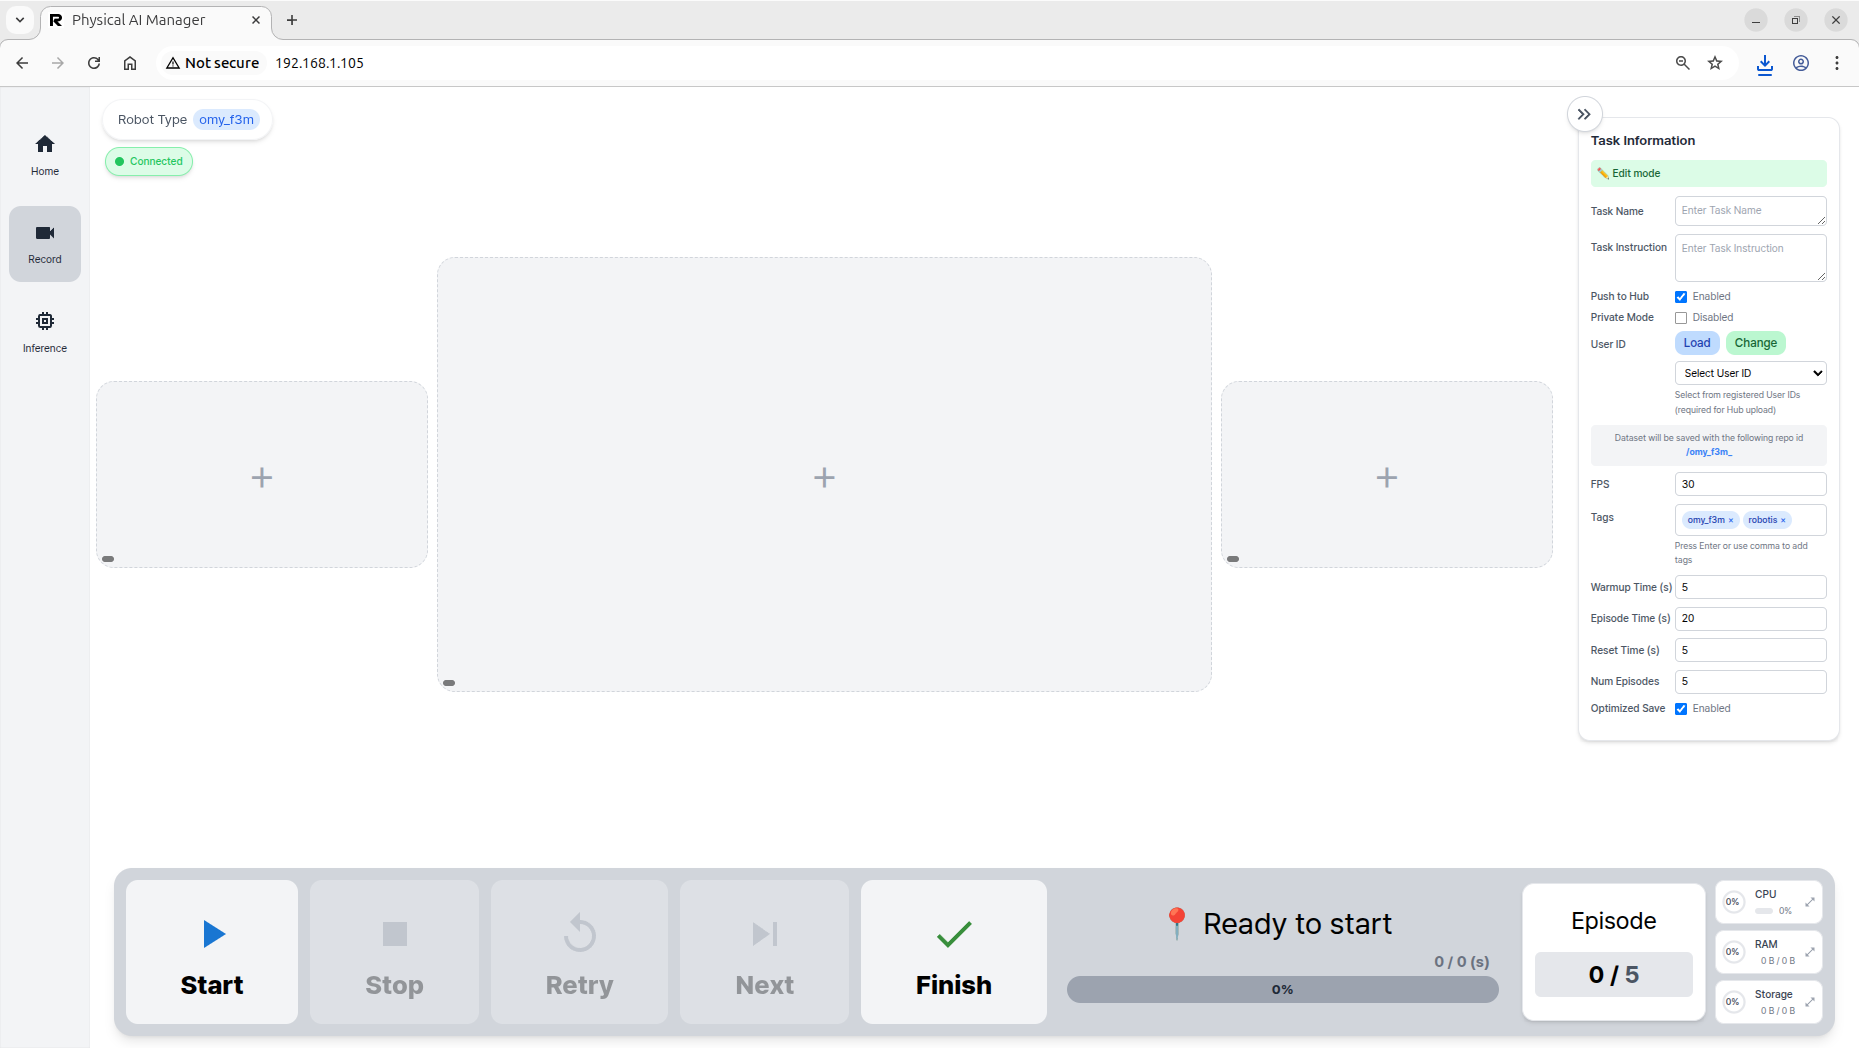
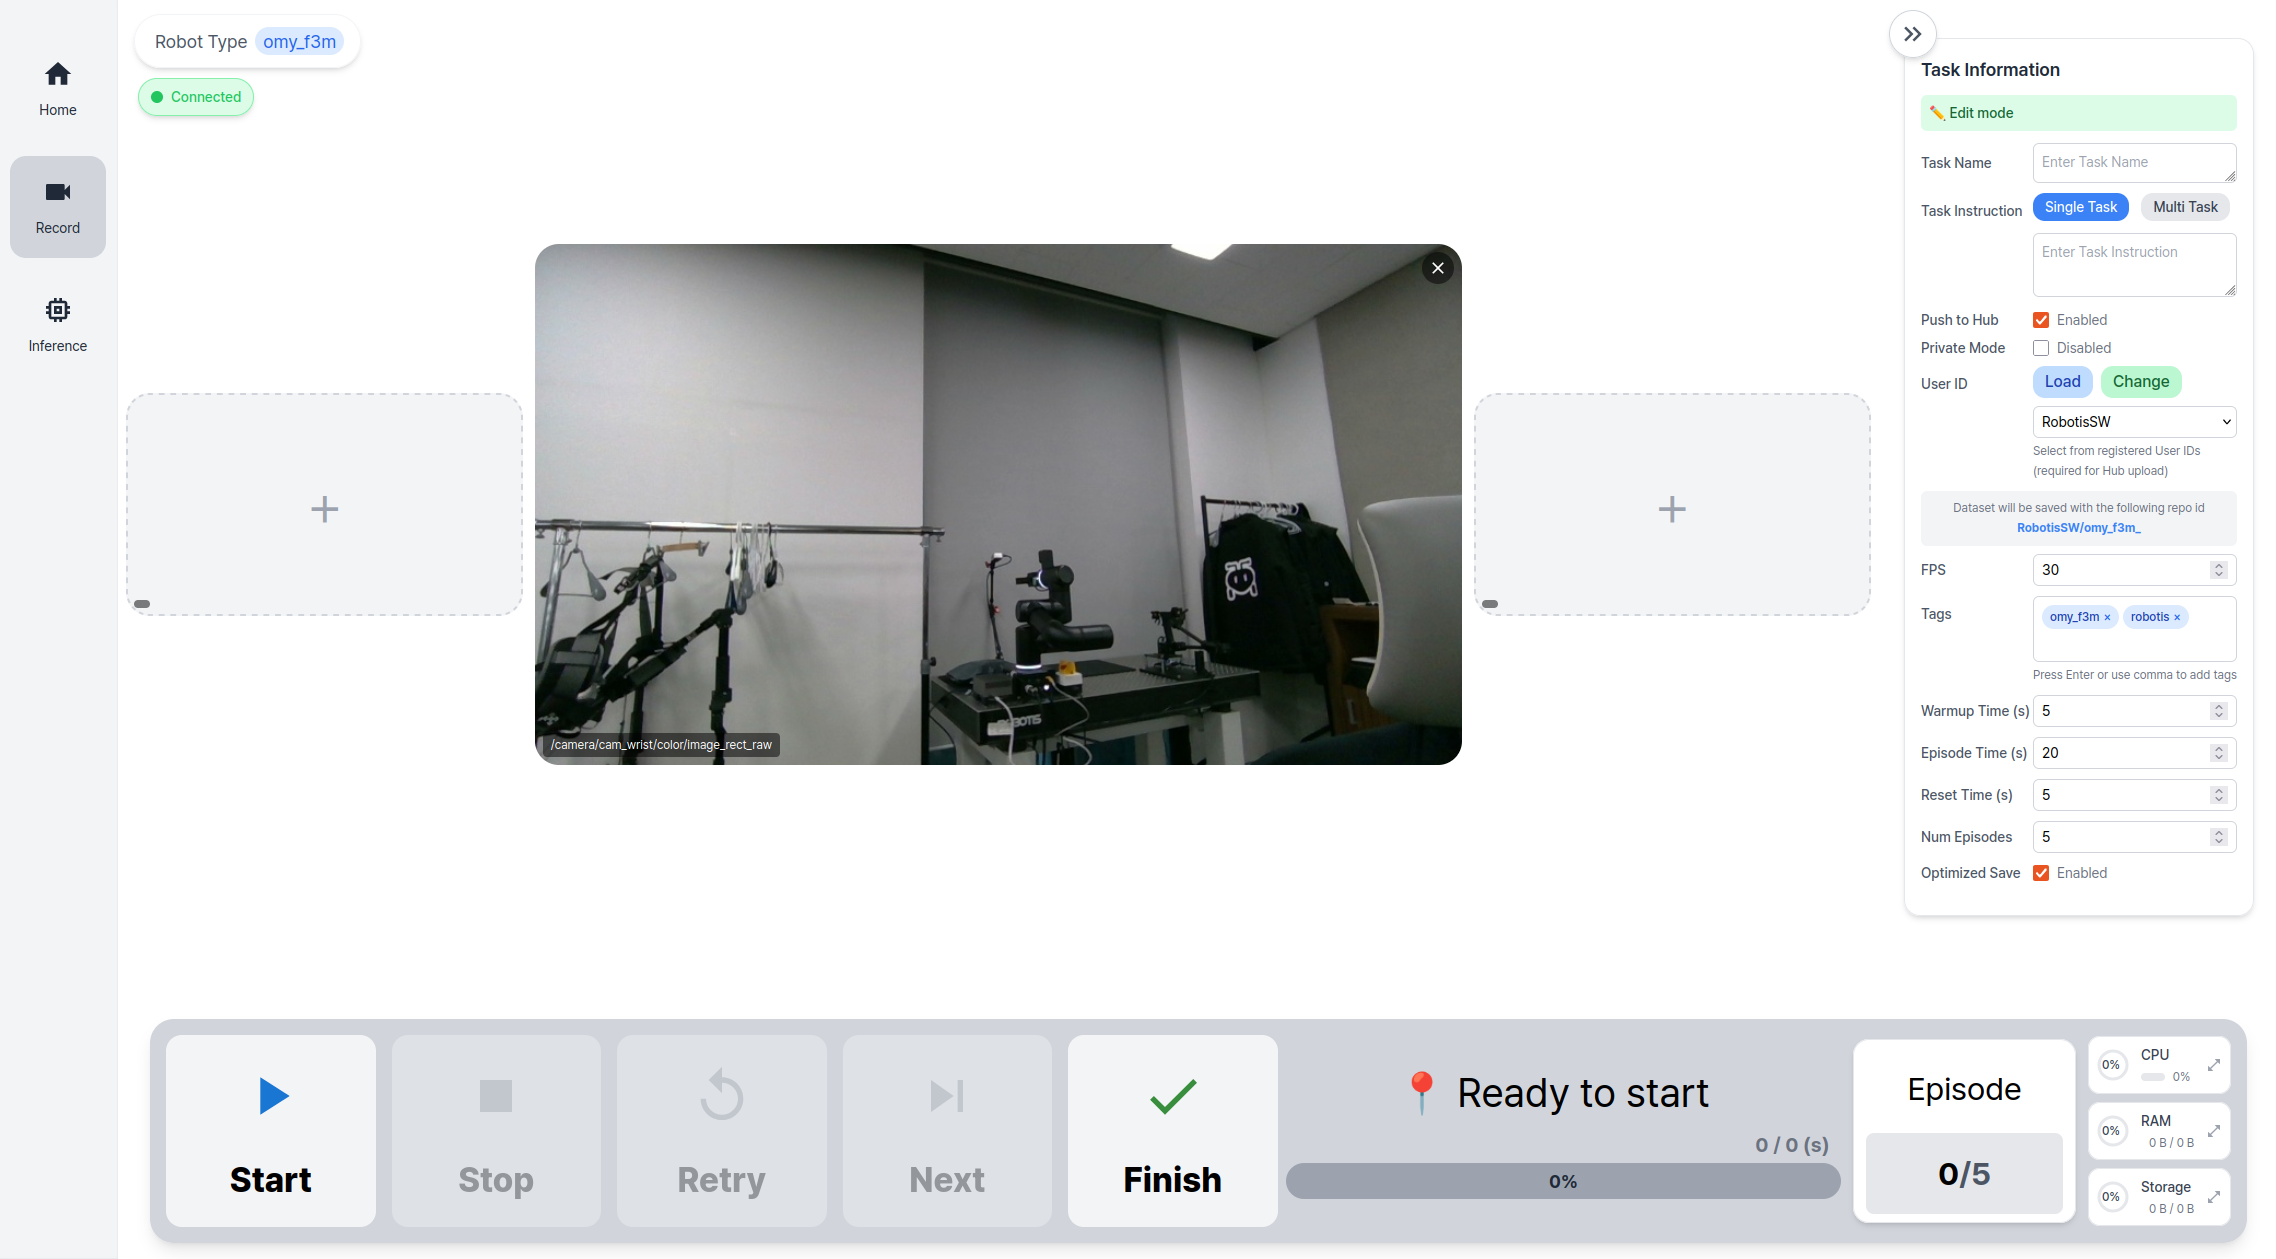
Updated few descriptions for data preparation

diff --git a/docs/omy/dataset_preparation.md b/docs/omy/dataset_preparation.md
@@ -91,14 +91,23 @@ Enter the Docker container:
 ```
 
 #### b. Setup ROS Domain ID
-Set a consistent `ROS_DOMAIN_ID` across terminals to enable ROS 2 node communication.
+Set a consistent `ROS_DOMAIN_ID` across terminals to enable ROS 2 node communication:
 ```bash
 echo 'export ROS_DOMAIN_ID=30' >> ~/.bashrc
 source ~/.bashrc
 ```
-#### c. Launch Physical AI Server
 
-Launch Physical AI Server with the following command
+#### c. Build Physical AI Server
+
+Build the Physical AI Server with the following command:
+
+```bash
+colcon build --symlink-install --cmake-args -DCMAKE_BUILD_TYPE=Release
+```
+
+#### d. Launch Physical AI Server
+
+Launch Physical AI Server with the following command:
 
 ```bash
 ros2 launch physical_ai_server physical_ai_server_bringup.launch.py
@@ -150,7 +159,10 @@ After clicking the `Set Robot Type` button, the status will change to `Connected
 You cannot access **Record** page unless a robot type has been selected on the **Home** page.
 Please ensure that the robot type is selected before proceeding.
 :::
-After the status changes to `Connected`, access to the **Record** page will be available through the button on the left sidebar.  
+
+After the status changes to `"Connected"`, you can access the **Record** page using the button on the left sidebar, as shown below.
+<img src="/imitation_learning/web_ui_record_page.png" alt="Web UI" style="width: 100%; ">
+<p style="text-align: center;"><em>Record Screen</em></p>
 
 The **Record** page is divided into three main sections:
 
@@ -161,9 +173,6 @@ The **Record** page is divided into three main sections:
 - **Control Panel** (Bottom): Start/stop recording and manage data collection. [(details)](#_5-start-recording)
 
 The selected robot type is also displayed in the top left corner.
-
-  <img src="/imitation_learning/web_ui_record_page.png" alt="Web UI" style="width: 100%; ">
-  <p style="text-align: center;"><em>Record Screen</em></p> 
 
 ### 3. Visualize RGB images from the cameras:
 
@@ -323,7 +332,7 @@ cd physical_ai_tools/docker && ./container.sh enter
 
 Move to the **physical_ai_tools/lerobot** directory inside the container:
 ```bash
-cd /root/.cache/huggingface/lerobot/
+cd /root/ros2_ws/src/physical_ai_tools/lerobot
 ```
 
 Run the following command to launch the dataset visualization tool:
